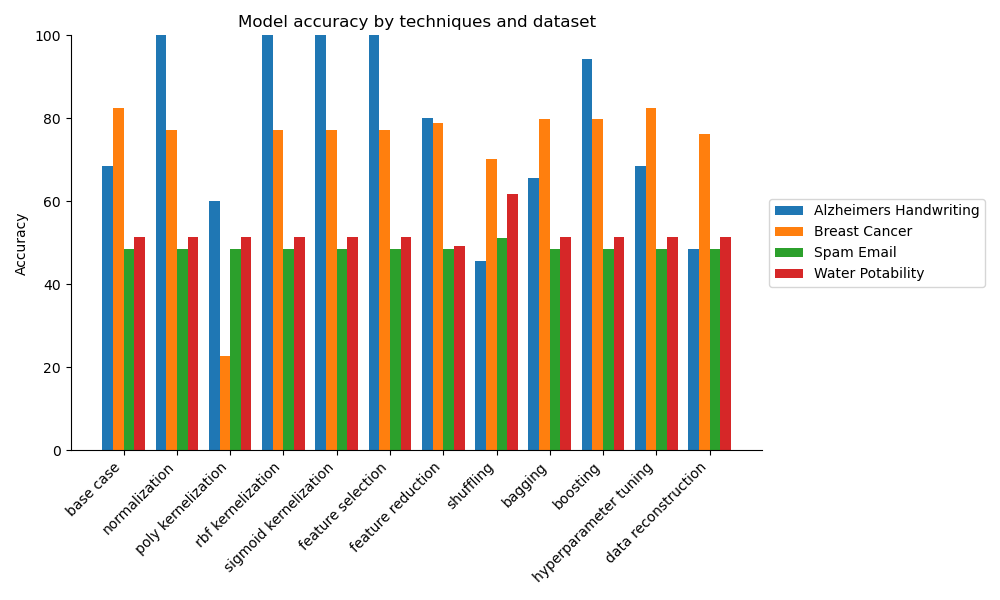
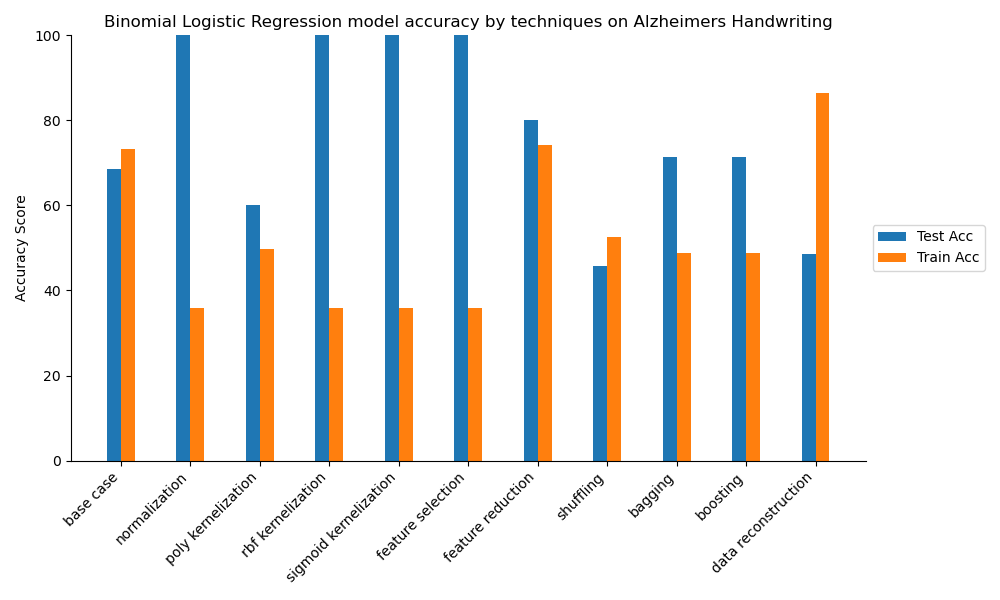
data plot examples

diff --git a/plot.py b/plot.py
@@ -1,5 +1,6 @@
 import numpy as np
 import matplotlib.pyplot as plt
+import seaborn as sns
 
 def readfile(folder):
     with open(folder, 'r') as f:
@@ -8,58 +9,47 @@ def readfile(folder):
         for file in file_content:
             file = file.replace("\n","")
             to_return.append(file.split(","))
-
         return to_return
 
-def plot_bar_individual(file_content_list, save_name):
+def plot_bar_individual(file_content_list, save_name, dataset_name, model_type, combination = None):
     labels = []
     legend = []
     for content in file_content_list:
         if content[1] not in legend:
             legend.append(content[1])
-    techniques = {}
+
+    techniques_test = {}
+    techniques_train = {}
+
     for content in file_content_list:
         if content[0] not in labels:
             labels.append(content[0])
-        if content[1] not in techniques:
-            techniques[content[1]] = []
-        techniques[content[1]].append(float(content[2])*100)
+        if content[1] not in techniques_test:
+            techniques_test[content[1]] = []
+        if content[1] not in techniques_train:
+            techniques_train[content[1]] = []
+        techniques_test[content[1]].append(float(content[2])*100)
+        techniques_train[content[1]].append(float(content[3])*100)
 
     #labels = ['G1', 'G2', 'G3', 'G4', 'G5']
-    Alzheimers = techniques[legend[0]]
-    Breast = techniques[legend[1]]
-    Spam = techniques[legend[2]]
-    Water = techniques[legend[3]]
-
-
+    test = techniques_test[dataset_name]
+    train = techniques_train[dataset_name]
 
     x = np.arange(len(labels))  # the label locations
     width = 0.2  # the width of the bars
 
     fig, ax = plt.subplots(figsize=(10, 6))
-    rects1 = ax.bar(x - 6*width/len(legend), Alzheimers, width, label=legend[0])
-    rects2 = ax.bar(x - 2*width/len(legend), Breast, width, label=legend[1])
-    rects3 = ax.bar(x + 2*width/len(legend), Spam, width, label=legend[2])
-    rects4 = ax.bar(x + 6*width/len(legend), Water, width, label=legend[3])
+
+    rects2 = ax.bar(x - 2*width/len(legend), test, width, label='Test Acc')
+    rects3 = ax.bar(x + 2*width/len(legend), train, width, label='Train Acc')
 
     # Add some text for labels, title and custom x-axis tick labels, etc.
-    ax.set_ylabel('Accuracy')
+    ax.set_ylabel('Accuracy Score')
     ax.set_ylim([0,100])
-    ax.set_title('Model accuracy by techniques and dataset')
+    ax.set_title(f'{model_type} model accuracy by techniques on {dataset_name}')
     ax.set_xticks(x)
     ax.set_xticklabels(labels)
     ax.legend()
-
-
-    def autolabel(rects):
-        """Attach a text label above each bar in *rects*, displaying its height."""
-        for rect in rects:
-            height = rect.get_height()
-            ax.annotate('{}'.format(height),
-                        xy=(rect.get_x() + rect.get_width() / len(legend), height),
-                        xytext=(0, 3),  # 3 points vertical offset
-                        textcoords="offset points",
-                        ha='center', va='bottom')
 
     # Put a legend to the right of the current axis
     ax.legend(loc='center left', bbox_to_anchor=(1, 0.5))
@@ -68,10 +58,134 @@ def plot_bar_individual(file_content_list, save_name):
     fig.tight_layout()
     ax.spines['top'].set_visible(False)
     ax.spines['right'].set_visible(False)
+    ax.yaxis.grid(True, color='lightgrey')
+
+    ax.plot([0, ax.get_xlim()[-1]] , [test[0], test[0]],
+            ls='--', c='tab:blue', linewidth=1)
+    ax.plot([0.2, ax.get_xlim()[-1]], [train[0], train[0]],
+            ls='--', c='tab:orange', linewidth=1)
 
     plt.savefig(save_name)
 
+def plot_bar_combination(file_content_list, save_name, model_type):
+    labels = []
+    legend = []
+    for content in file_content_list:
+        if content[1] not in legend:
+            legend.append(content[1])
+
+    techniques_test = {}
+    techniques_train = {}
+
+    for content in file_content_list:
+        if content[1] not in labels:
+            labels.append(content[1])
+        if content[1] not in techniques_test:
+            techniques_test[content[1]] = []
+        if content[1] not in techniques_train:
+            techniques_train[content[1]] = []
+        techniques_test[content[1]].append(float(content[2])*100)
+        techniques_train[content[1]].append(float(content[3])*100)
+
+
+    mean = {}
+    mean['test'] = []
+    mean['train'] = []
+    maxi = {}
+    maxi['test'] = []
+    maxi['train'] = []
+    mini = {}
+    mini['test'] = []
+    mini['train'] = []
+
+    for technique in labels:
+    #labels = ['G1', 'G2', 'G3', 'G4', 'G5']
+        techniques_test[technique].sort()
+        techniques_train[technique].sort()
+
+        average_test = sum(techniques_test[technique]) / len(techniques_test[technique]) 
+        mean['test'].append(average_test)
+        maxi['test'].append(techniques_test[technique][len(techniques_test[technique]) - 1] - average_test)
+        mini['test'].append(average_test - techniques_test[technique][0])
+
+        average_train = sum(techniques_train[technique]) / len(techniques_train[technique]) 
+        mean['train'].append(average_train)
+        maxi['train'].append(techniques_train[technique][len(techniques_train[technique]) - 1] - average_train)
+        mini['train'].append(average_train - techniques_train[technique][0])
+
+    #print(mean)
+    #print(maxi)
+    #print(mini)
+
+    x = np.arange(len(labels))  # the label locations
+    width = 0.2  # the width of the bars
+
+    fig, ax = plt.subplots(figsize=(10, 6))
+    rects1 = ax.bar(x - 2*width/len(legend), mean['test'], width, yerr=[mini['test'],maxi['test']], label='Testing Score')
+    rects2 = ax.bar(x + 2*width/len(legend), mean['train'], width, yerr=[mini['train'],maxi['train']], label='Training Score')
+
+    # Add some text for labels, title and custom x-axis tick labels, etc.
+    ax.set_ylabel('Accuracy Score')
+    ax.set_ylim([0,100])
+    ax.set_title(f'{model_type} model accuracy by multiple dataset')
+    ax.set_xticks(x)
+    ax.set_xticklabels(labels)
+    ax.legend()
+
+    # Put a legend to the right of the current axis
+    ax.legend(loc='center left', bbox_to_anchor=(1, 0.5))
+
+    fig.tight_layout()
+    ax.spines['top'].set_visible(False)
+    ax.spines['right'].set_visible(False)
+    ax.yaxis.grid(True, color='lightgrey')
+
+    (_, caps, _) = plt.errorbar(
+        x- 2*width/len(legend), mean['test'], yerr=[mini['test'],maxi['test']], 
+        fmt='o', markersize=3, capsize=8, c = 'black')
+    for cap in caps:
+        cap.set_markeredgewidth(1)
+    (_, caps, _) = plt.errorbar(
+        x+ 2*width/len(legend), mean['train'], yerr=[mini['train'],maxi['train']], 
+        fmt='o', markersize=3, capsize=8, c = 'black')
+    for cap in caps:
+        cap.set_markeredgewidth(1)
+
+    plt.savefig(save_name)
+
+
 if __name__ == "__main__":
+    '''
+    use these keywords
+    dataset:
+        Alzheimers Handwriting
+        Breast Cancer
+        Spam Email
+        Water Potability
+
+    technique: 
+        base case
+        normalization
+        poly kernelization
+        rbf kernelization
+        sigmoid kernelization
+        feature selection
+        feature reduction
+        shuffling
+        bagging
+        boosting
+        hyperparameter tuning
+        data reconstruction
+        combination
+    '''
     folder = 'example_LR_result.txt'
     file_content_list = readfile(folder)
-    plot_bar_individual(file_content_list,'test')
+    plot_bar_individual(file_content_list,'LR_Alzheimers_Handwriting', 'Alzheimers Handwriting', 'Binomial Logistic Regression')
+    plot_bar_individual(file_content_list,'LR_Breast Cancer', 'Breast Cancer', 'Binomial Logistic Regression')
+    plot_bar_individual(file_content_list,'LR_Spam Email', 'Spam Email', 'Binomial Logistic Regression')
+    plot_bar_individual(file_content_list,'LR_Water Potability', 'Water Potability', 'Binomial Logistic Regression')
+
+    
+    folder_comb = 'example_LR_combination.txt'
+    file_content_list = readfile(folder_comb)
+    plot_bar_combination(file_content_list, 'LR_Combination', 'Binomial Logistic Regression')

diff --git a/LR_model/main.py b/LR_model/main.py
@@ -8,12 +8,12 @@ from hyperparam_tuning import hyperparam_tuning
 
 
 def writeB(s):
-    save = '/work/ratul1/chuen/temp/COM-S-573/LR_model/v1_BinomLR.txt'
+    save = '/work/ratul1/chuen/temp/COM-S-573/LR_model/v2_BinomLR.txt'
     with open(save, 'a') as f:
         f.write(f'{s}')
 
 def writeM(s):
-    save = '/work/ratul1/chuen/temp/COM-S-573/LR_model/v1_MultiLR.txt'
+    save = '/work/ratul1/chuen/temp/COM-S-573/LR_model/v2_MultiLR.txt'
     with open(save, 'a') as f:
         f.write(f'{s}')
 
